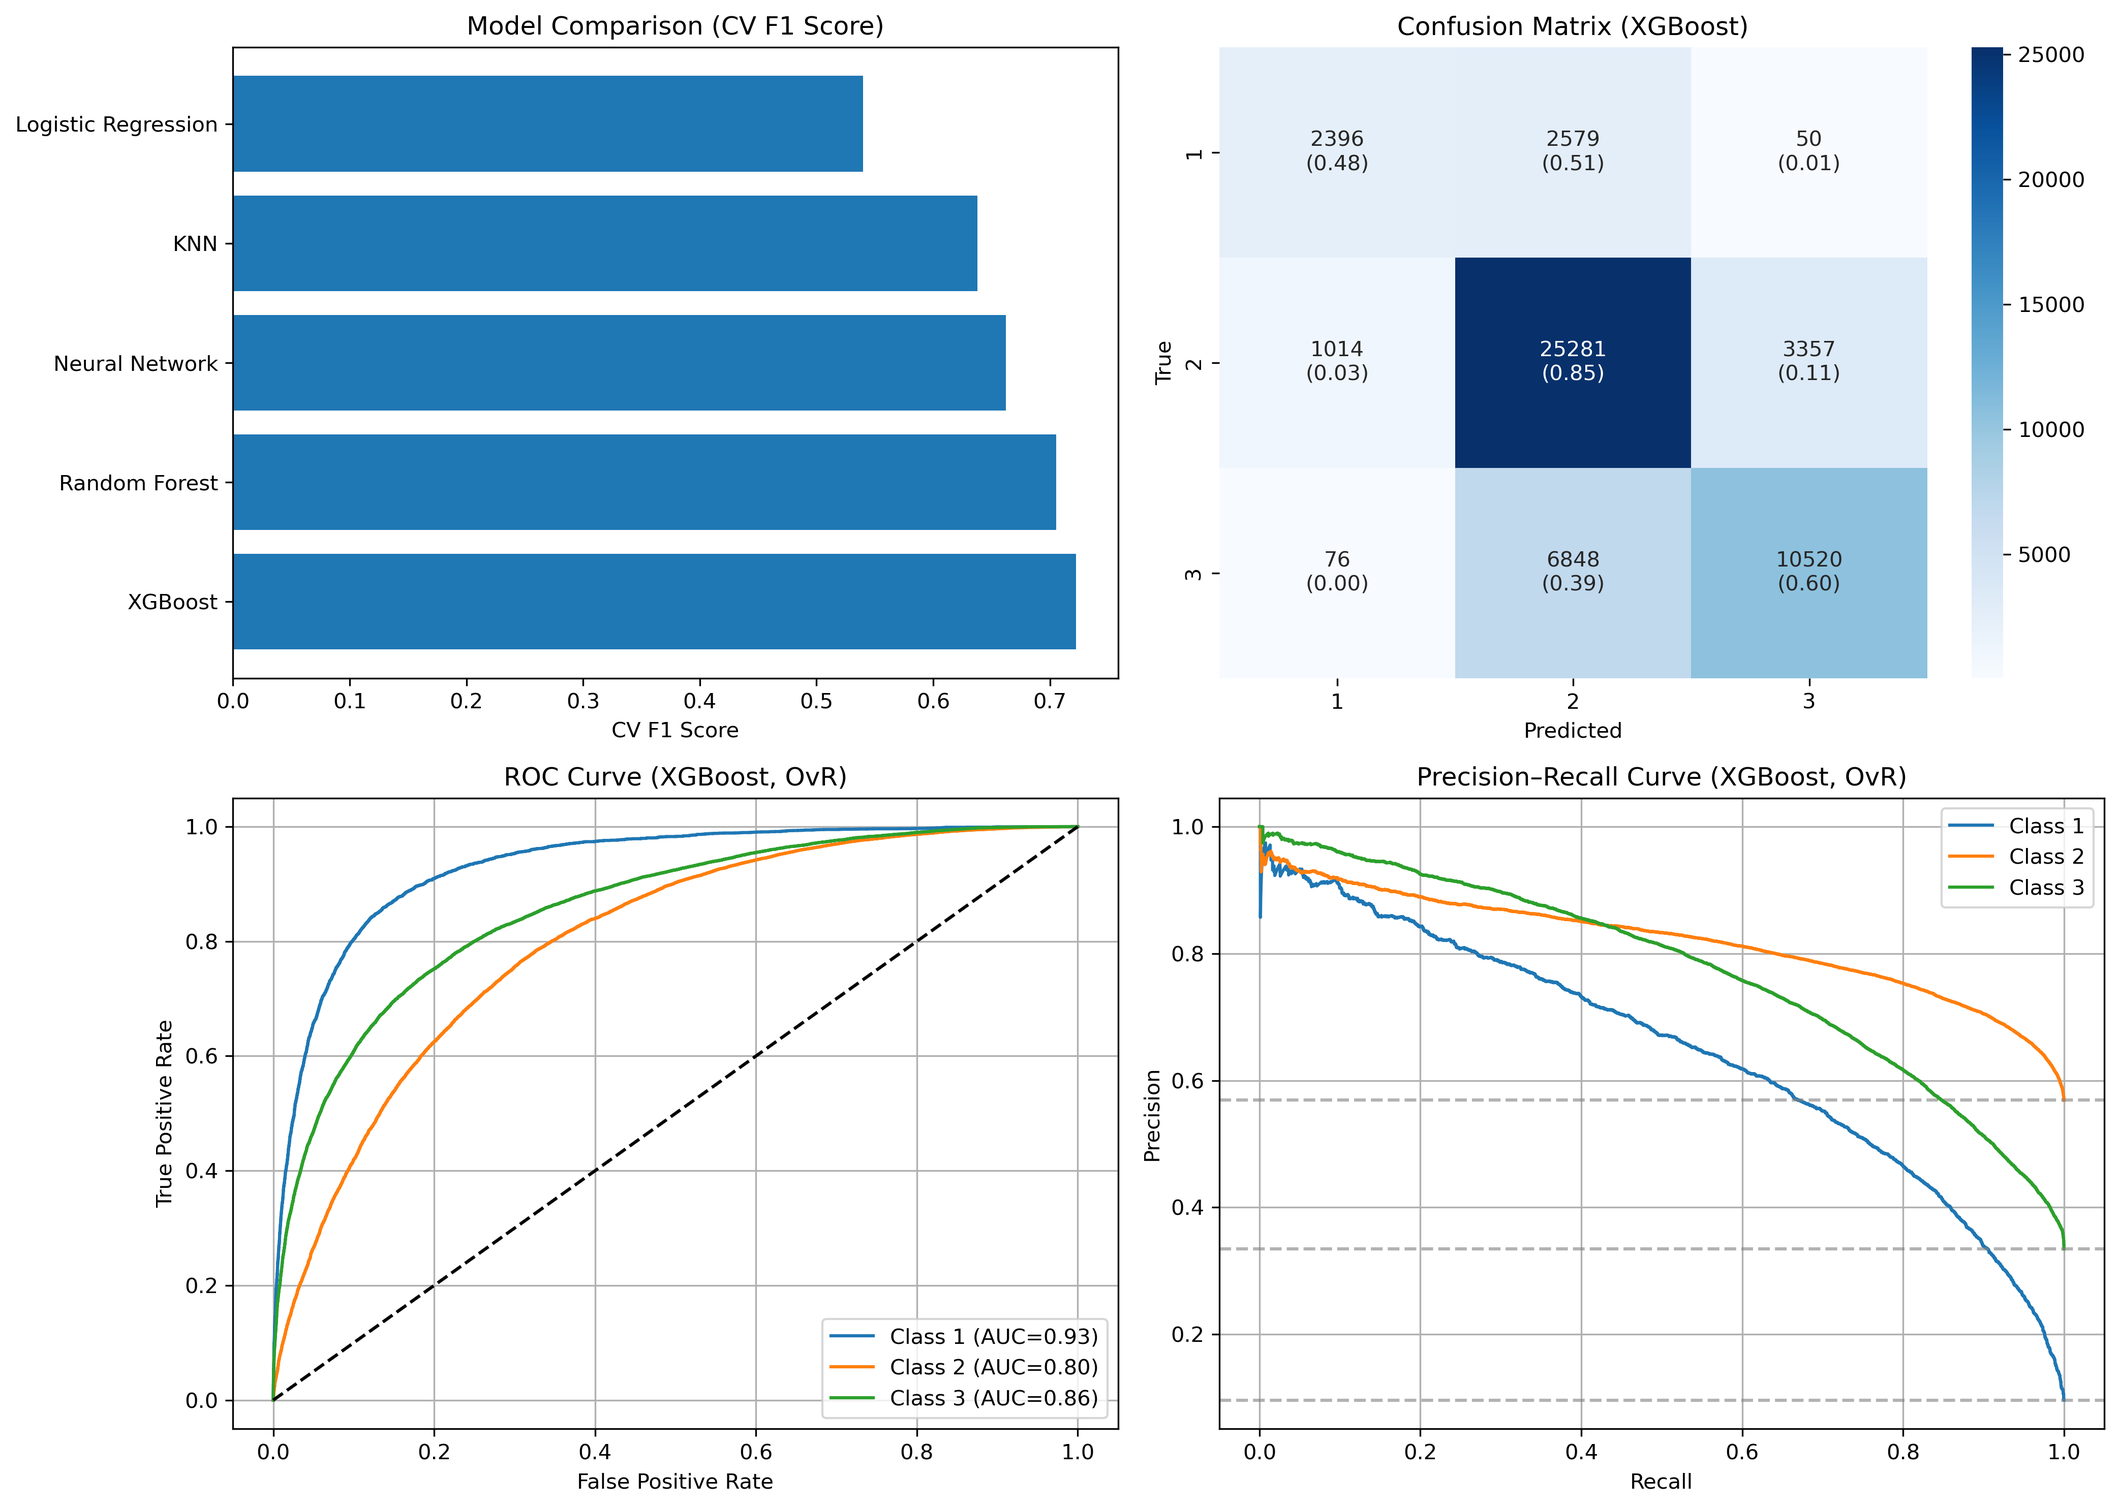
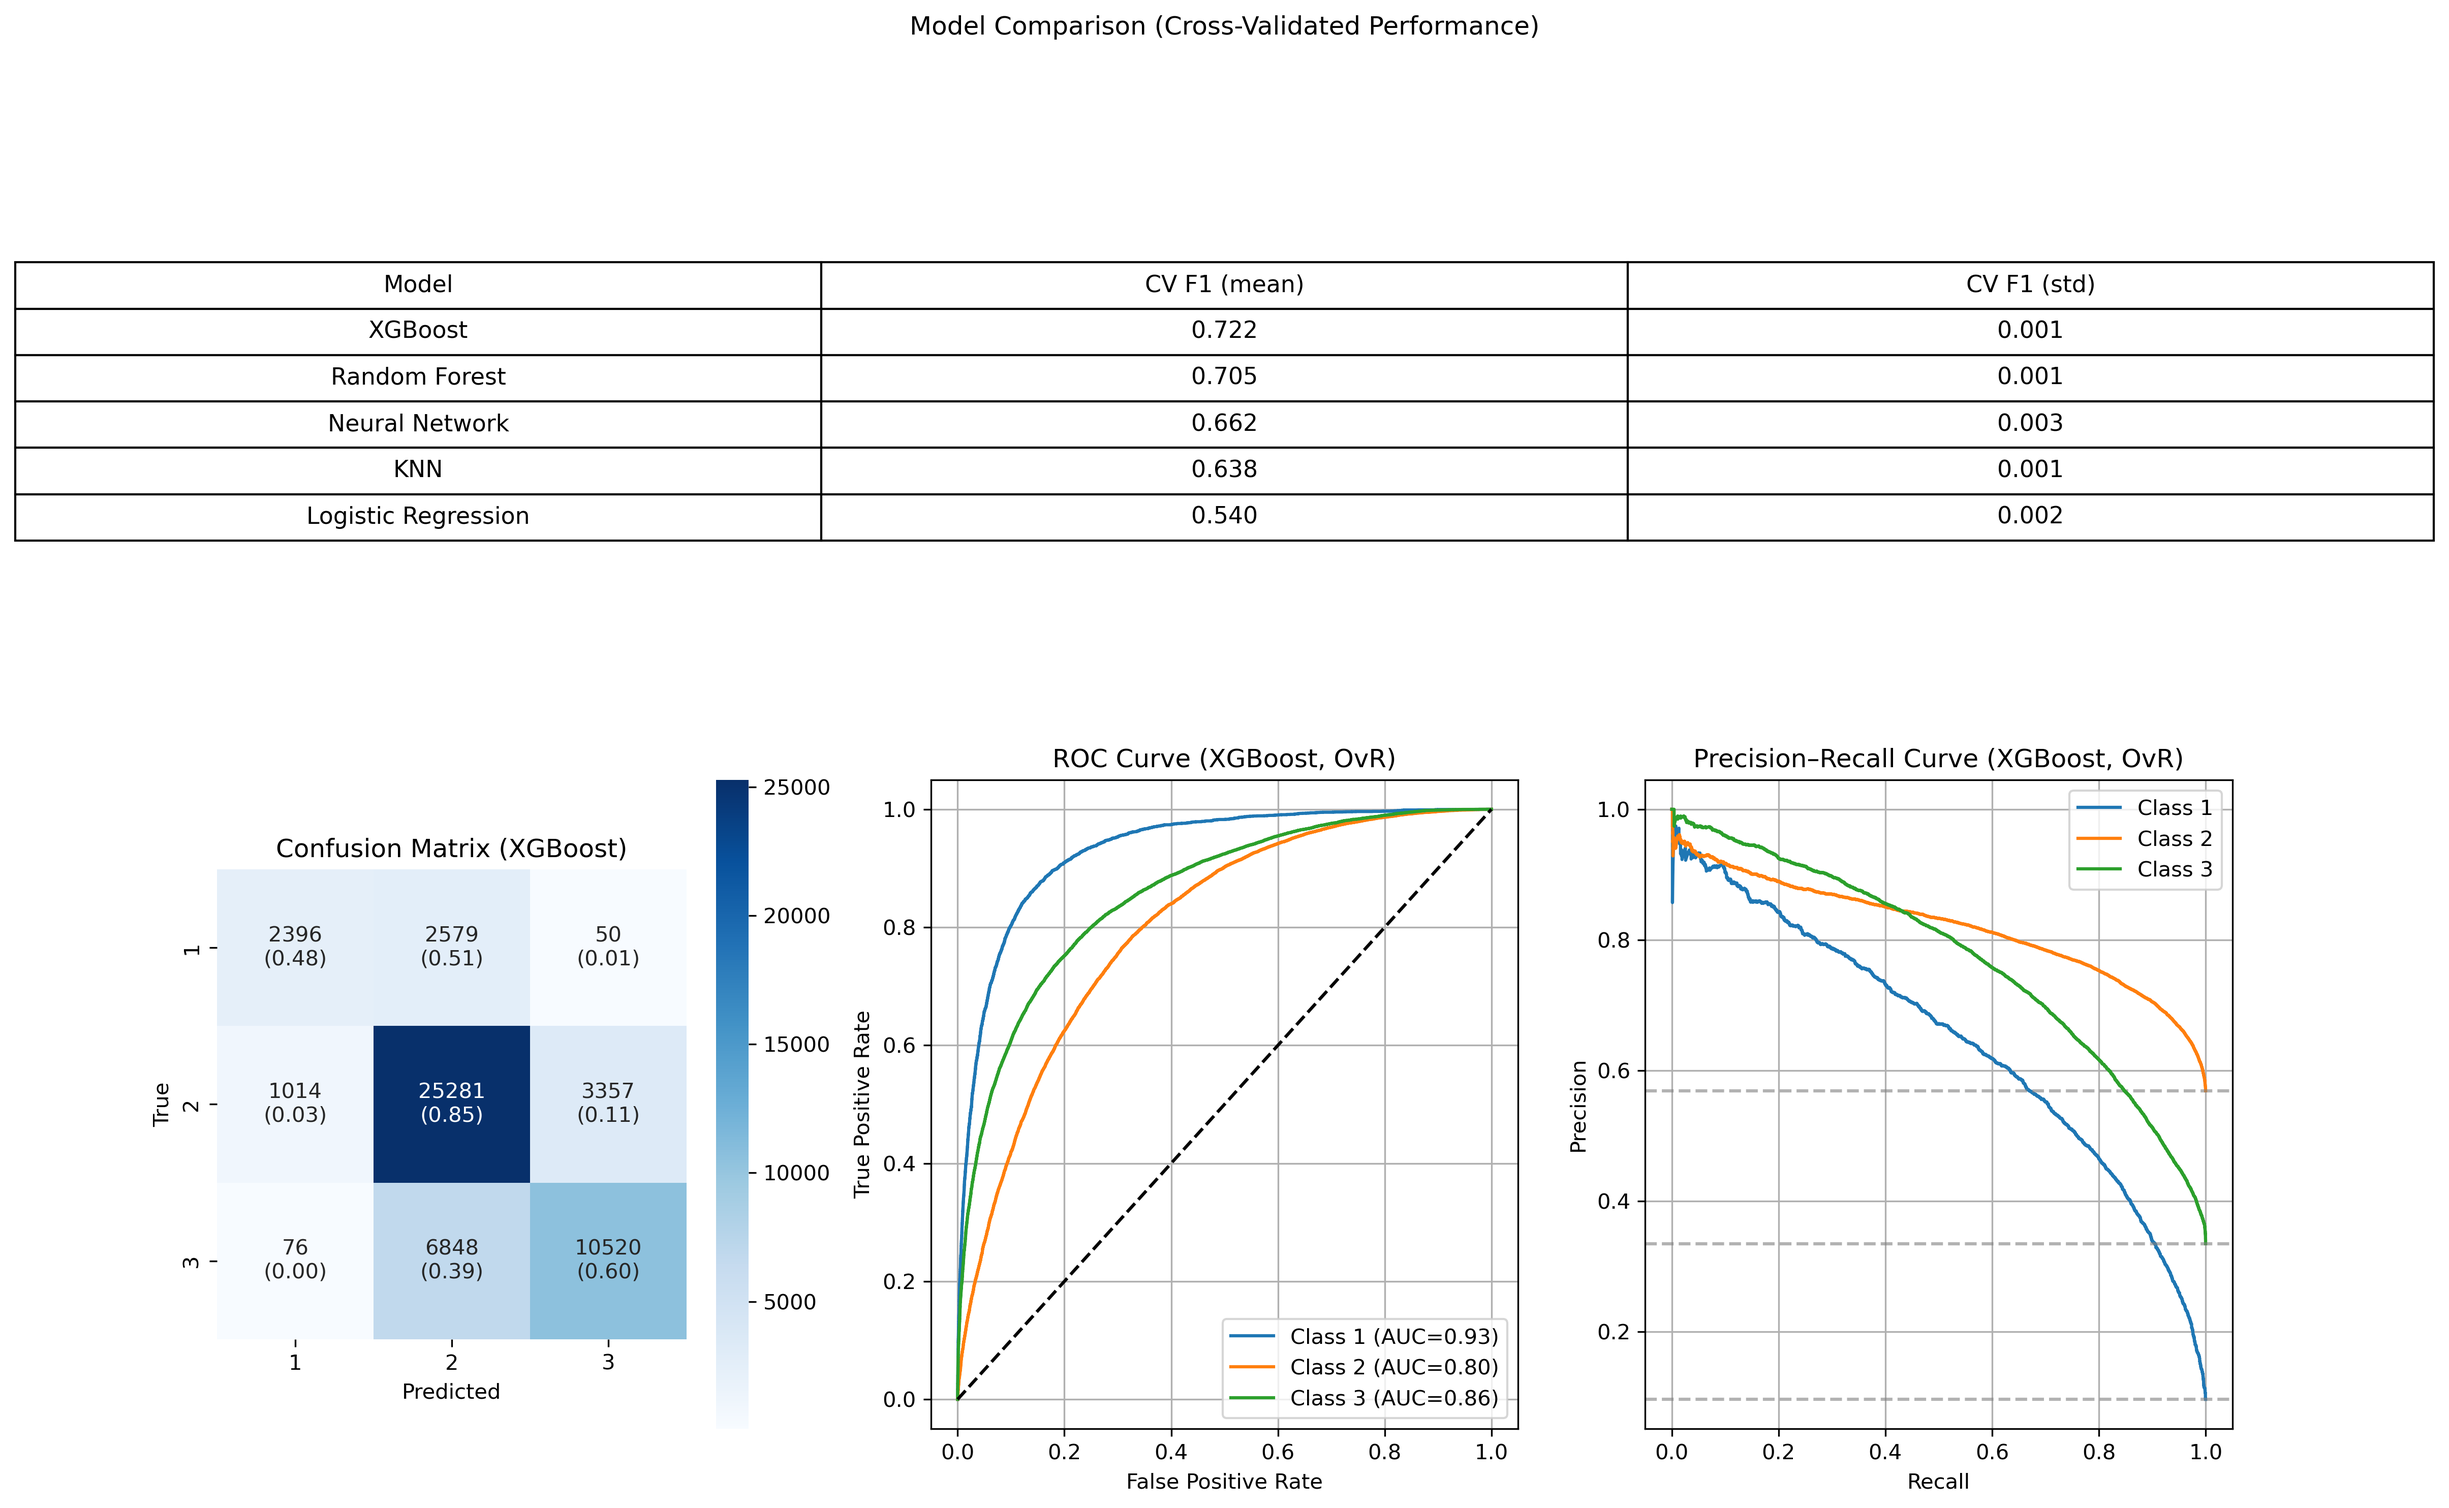
Fixing plotting

diff --git a/model_comp.py b/model_comp.py
@@ -146,7 +146,8 @@ def model_comp(X_train, y_train, models):
         results[name] = {
             'best_model': grid.best_estimator_,
             'best_params': grid.best_params_,
-            'best_score': grid.best_score_
+            'best_score': grid.best_score_,
+            'cv_results': grid.cv_results_
         }
     
     return results
@@ -154,24 +155,40 @@ def model_comp(X_train, y_train, models):
 
 # step 5: save detailed results and return best model for test evaluation
 def save_detailed_results(results, out='report/model_results.txt'):
+    summary = {}
+
+    for name, info in results.items():
+        cv_res = info["cv_results"]
+        best_idx = cv_res["mean_test_score"].argmax()
+
+        summary[name] = {
+            "mean": cv_res["mean_test_score"][best_idx],
+            "std": cv_res["std_test_score"][best_idx],
+            "best_params": info["best_params"],
+            "best_model": info["best_model"]
+        }
+
+    # ---- sort using cached values ----
+    sorted_models = sorted(
+        summary.items(),
+        key=lambda x: x[1]["mean"],
+        reverse=True
+    )
+
+    # ---- write file ----
     with open(out, 'w') as f:
         f.write("="*80 + "\n")
         f.write("MODEL COMPARISON RESULTS (GridSearchCV)\n")
         f.write("="*80 + "\n\n")
 
-        # sort models by best score
-        sorted_models = sorted(
-            results.items(),
-            key=lambda x: x[1]["best_score"],
-            reverse=True
-        )
-
         for name, info in sorted_models:
+            f.write("-"*40 + "\n")
             f.write(f"Model: {name}\n")
             f.write("-"*40 + "\n")
-            f.write(f"Best CV Score: {info['best_score']:.5f}\n")
-            f.write(f"Best Parameters:\n")
 
+            f.write(f"CV Weighted F1: {info['mean']:.4f}, std: {info['std']:.4f}\n\n")
+
+            f.write("Best Parameters:\n")
             for param, value in info["best_params"].items():
                 f.write(f"  {param}: {value}\n")
 
@@ -181,76 +198,115 @@ def save_detailed_results(results, out='report/model_results.txt'):
 
 # step 6: visualize and evaluate on test data
 def evaluate_model(sorted_models, X_test, y_test, out='report/model_comparison.png'):
-    fig, axes = plt.subplots(2, 2, figsize=(14, 10))
-
     # (a) model comparison results
     df = pd.DataFrame([
         {
             "Model": name,
-            "CV_F1": info["best_score"]
+            "mean": info["mean"],
+            "std": info["std"]
+
         }
         for name, info in sorted_models
     ])
-    axes[0, 0].barh(df["Model"], df["CV_F1"])
-    axes[0, 0].set_title("Model Comparison (CV F1 Score)")
-    axes[0, 0].set_xlabel("CV F1 Score")
+    fig = plt.figure(figsize=(16, 10))
+    gs = fig.add_gridspec(2, 3)
 
-    # evaluate best model on test data
+    # (A) TABLE spanning top row
+    ax_table = fig.add_subplot(gs[0, :])
+    ax_table.axis("off")
+
+    table_data = [
+        [name, f"{info['mean']:.3f}", f"{info['std']:.3f}"]
+        for name, info in sorted_models
+    ]
+
+    table = ax_table.table(
+        cellText=table_data,
+        colLabels=["Model", "CV F1 (mean)", "CV F1 (std)"],
+        cellLoc="center",
+        loc="center"
+    )
+
+    table.auto_set_font_size(False)
+    table.set_fontsize(11)
+    table.scale(1.2, 1.5)
+
+    ax_table.set_title("Model Comparison (Cross-Validated Performance)", pad=20)
+
+    # Best model
     best_name, best_info = sorted_models[0]
     best_model = best_info["best_model"]
 
     y_pred = best_model.predict(X_test)
 
-    #(b) confusion matrix for best model
+    y_test_bin = label_binarize(y_test, classes=[0, 1, 2])
+    y_score = best_model.predict_proba(X_test)
+
+    # (B) Confusion Matrix
+    ax_cm = fig.add_subplot(gs[1, 0])
+
     cm = confusion_matrix(y_test, y_pred)
     cm_norm = cm / cm.sum(axis=1, keepdims=True)
+    cm_norm = np.nan_to_num(cm_norm)
+
     labels = np.array([
         [f"{cm[i,j]}\n({cm_norm[i,j]:.2f})" for j in range(3)]
         for i in range(3)
     ])
 
-    sns.heatmap(cm, annot=labels, fmt="", cmap="Blues", ax=axes[0, 1],
-                xticklabels=[1, 2, 3], yticklabels=[1, 2, 3])
-    axes[0, 1].set_title(f"Confusion Matrix ({best_name})")
-    axes[0, 1].set_xlabel("Predicted")
-    axes[0, 1].set_ylabel("True")
+    sns.heatmap(
+        cm,
+        annot=labels,
+        fmt="",
+        cmap="Blues",
+        ax=ax_cm,
+        xticklabels=[1, 2, 3],
+        yticklabels=[1, 2, 3]
+    )
+    ax_cm.set_aspect("equal")
+    ax_cm.set_title(f"Confusion Matrix ({best_name})")
+    ax_cm.set_xlabel("Predicted")
+    ax_cm.set_ylabel("True")
 
-    # binarize test labels for ROC curve
-    y_test_bin = label_binarize(y_test, classes=[1, 2, 3])
-    y_score = best_model.predict_proba(X_test)
+    # (C) ROC Curve
+    ax_roc = fig.add_subplot(gs[1, 1])
 
-    # (c) roc
     for i in range(3):
         fpr, tpr, _ = roc_curve(y_test_bin[:, i], y_score[:, i])
         roc_auc = auc(fpr, tpr)
-        axes[1, 0].plot(fpr, tpr, label=f"Class {i+1} (AUC={roc_auc:.2f})")
+        ax_roc.plot(fpr, tpr, label=f"Class {i+1} (AUC={roc_auc:.2f})")
 
-    axes[1, 0].plot([0, 1], [0, 1], "k--")
-    axes[1, 0].set_title(f"ROC Curve ({best_name}, OvR)")
-    axes[1, 0].legend()
-    axes[1,0].grid()
-    axes[1,0].set_xlabel("False Positive Rate")
-    axes[1,0].set_ylabel("True Positive Rate")
+    ax_roc.plot([0, 1], [0, 1], "k--")
+    ax_roc.set_title(f"ROC Curve ({best_name}, OvR)")
+    ax_roc.set_xlabel("False Positive Rate")
+    ax_roc.set_ylabel("True Positive Rate")
+    ax_roc.legend()
+    ax_roc.grid()
 
-    # (d) precision-recall curve
+    # (D) Precision-Recall Curve
+    ax_pr = fig.add_subplot(gs[1, 2])
+
     for i in range(3):
         precision, recall, _ = precision_recall_curve(
             y_test_bin[:, i],
             y_score[:, i]
         )
-        axes[1, 1].plot(recall, precision, label=f"Class {i+1}")
+
+        ax_pr.plot(recall, precision, label=f"Class {i+1}")
+
         pos_rate = np.mean(y_test_bin[:, i])
-        axes[1, 1].axhline(pos_rate, linestyle="--", color='gray', alpha=0.6)
+        ax_pr.axhline(pos_rate, linestyle="--", color="gray", alpha=0.6)
 
-    axes[1, 1].set_title(f"Precision–Recall Curve ({best_name}, OvR)")
-    axes[1, 1].legend()
-    axes[1,1].grid()
-    axes[1,1].set_xlabel("Recall")
-    axes[1,1].set_ylabel("Precision")
+    ax_pr.set_title(f"Precision–Recall Curve ({best_name}, OvR)")
+    ax_pr.set_xlabel("Recall")
+    ax_pr.set_ylabel("Precision")
+    ax_pr.legend()
+    ax_pr.grid()
 
-    
+    # ---------------------------
     plt.tight_layout()
-    plt.savefig(out, dpi=300, bbox_inches='tight')
+    plt.savefig(out, dpi=300, bbox_inches="tight")
+    plt.close()
 
 def run_model_comp(X_path, y_path):
     print("\n" + "="*80)
